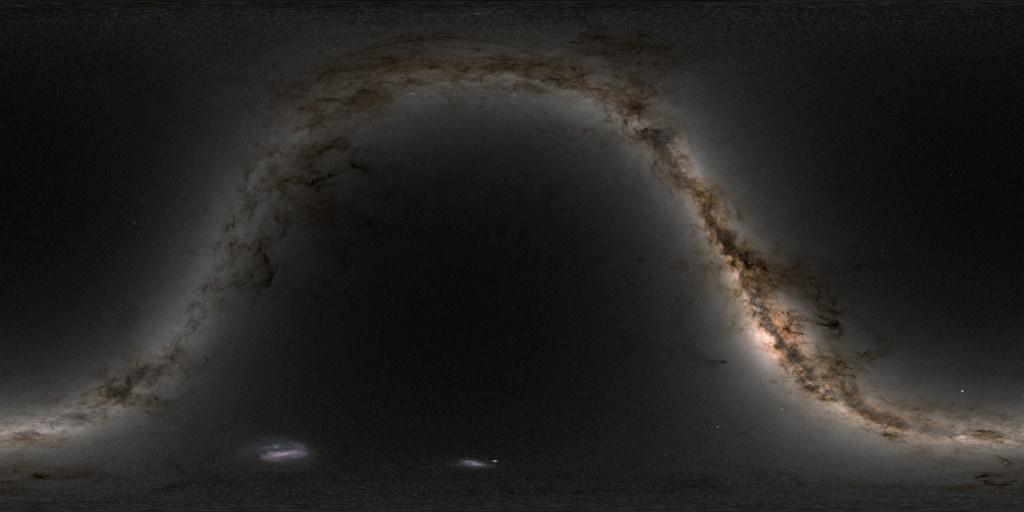
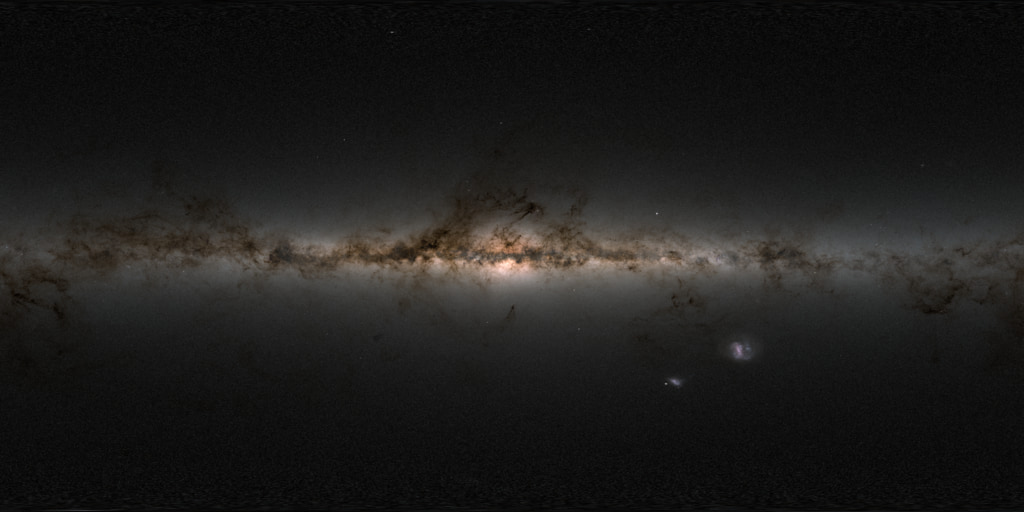
change: 은하수를 직선 띠로 — 은하좌표계 이미지 + 직선 별 라인
휘어진 아치(천구좌표계) -> 직선이 더 깔끔. 별과 맞추기도 쉬움.
- static/milkyway.jpg를 NASA 은하좌표계(직선 띠) 버전으로 교체
- .milkyway: 직선 대각선(rotate -24deg) 표시, 페더링 마스크
- galaxyArchY: 포물선 아치 -> 직선 (28 - 0.44*(x-50))
- 감사의 별 10개도 직선 라인 위로 재배치

diff --git a/src/lib/components/Cosmos.svelte b/src/lib/components/Cosmos.svelte
@@ -256,23 +256,23 @@
 	/* 은하수 — NASA Deep Star Maps(퍼블릭 도메인)의 실제 은하수 띠.
 	   대각선으로 돌리고 남보라로 그레이딩, 은은하게. */
 	.milkyway {
-		/* 은하수 전체 띠가 위쪽을 아치로 가로지름. 가장자리는 페더링으로 자연스럽게 */
+		/* 은하좌표계(직선 띠)를 대각선 직선으로 가로지름. 가장자리 페더링 */
 		position: absolute;
-		left: -22%;
-		right: -22%;
-		top: -10%;
-		height: 64%;
+		left: -32%;
+		right: -32%;
+		top: 3%;
+		height: 50%;
 		pointer-events: none;
 		background: url('/milkyway.jpg') center / 100% 100% no-repeat;
-		transform: rotate(-14deg);
+		transform: rotate(-24deg);
 		transform-origin: center;
 		/* 남보라로 물들이고 은은하게 */
-		filter: blur(2px) sepia(0.5) hue-rotate(205deg) saturate(1.6) brightness(0.82) contrast(1.04);
-		opacity: 0.5;
+		filter: blur(2px) sepia(0.5) hue-rotate(205deg) saturate(1.6) brightness(0.86) contrast(1.05);
+		opacity: 0.52;
 		mix-blend-mode: screen;
 		/* 직사각형 경계를 부드럽게 페이드 */
-		-webkit-mask: radial-gradient(ellipse 72% 90% at 50% 36%, #000 24%, transparent 88%);
-		mask: radial-gradient(ellipse 72% 90% at 50% 36%, #000 24%, transparent 88%);
+		-webkit-mask: radial-gradient(ellipse 80% 66% at 50% 50%, #000 26%, transparent 86%);
+		mask: radial-gradient(ellipse 80% 66% at 50% 50%, #000 26%, transparent 86%);
 	}
 
 	/* 별 — 순수한 점 */

diff --git a/src/lib/cosmos/gratitude.ts b/src/lib/cosmos/gratitude.ts
@@ -12,14 +12,14 @@ export type GratitudeStar = {
 
 // y는 은하 아치(galaxyArchY)를 따라 배치 — 별들이 은하수 띠 위에 모이도록.
 export const gratitudeStars: GratitudeStar[] = [
-	{ id: 'sea', x: 11, y: 19, name: '바다', note: '끝이 보이지 않아 오히려 안심이 되는 것.' },
-	{ id: 'mother', x: 23, y: 12, name: '어머니', note: '내가 처음 들은 목소리. 모든 다정함의 시작.' },
-	{ id: 'grandma', x: 33, y: 17, name: '할머니의 손', note: '주름마다 담긴 여러 계절.' },
-	{ id: 'you', x: 45, y: 6, name: '너', note: '지금 이 글을 읽고 있는, 당신.' },
-	{ id: 'night-music', x: 53, y: 12, name: '늦은 밤의 음악', note: '혼자가 아니라고 조용히 말해주는 소리.' },
-	{ id: 'friend', x: 63, y: 9, name: '오랜 친구', note: '말하지 않아도 아는 사이. 멀어도 가까운.' },
+	{ id: 'sea', x: 11, y: 46, name: '바다', note: '끝이 보이지 않아 오히려 안심이 되는 것.' },
+	{ id: 'mother', x: 23, y: 37, name: '어머니', note: '내가 처음 들은 목소리. 모든 다정함의 시작.' },
+	{ id: 'grandma', x: 33, y: 39, name: '할머니의 손', note: '주름마다 담긴 여러 계절.' },
+	{ id: 'you', x: 45, y: 31, name: '너', note: '지금 이 글을 읽고 있는, 당신.' },
+	{ id: 'night-music', x: 53, y: 24, name: '늦은 밤의 음악', note: '혼자가 아니라고 조용히 말해주는 소리.' },
+	{ id: 'friend', x: 63, y: 25, name: '오랜 친구', note: '말하지 않아도 아는 사이. 멀어도 가까운.' },
 	{ id: 'book', x: 70, y: 17, name: '한 권의 책', note: '다른 삶을 잠시 살게 해준 페이지들.' },
-	{ id: 'rain', x: 76, y: 24, name: '비 오는 날', note: '창을 두드리는 소리에 마음이 천천히 가라앉는다.' },
-	{ id: 'first-line', x: 84, y: 28, name: '첫 문장', note: '처음으로 내 손끝에서 제 빛깔을 낸 한 줄.' },
-	{ id: 'dawn', x: 92, y: 38, name: '새벽 산책', note: '아무도 깨지 않은 시간의 고요.' }
+	{ id: 'rain', x: 76, y: 19, name: '비 오는 날', note: '창을 두드리는 소리에 마음이 천천히 가라앉는다.' },
+	{ id: 'first-line', x: 84, y: 11, name: '첫 문장', note: '처음으로 내 손끝에서 제 빛깔을 낸 한 줄.' },
+	{ id: 'dawn', x: 92, y: 13, name: '새벽 산책', note: '아무도 깨지 않은 시간의 고요.' }
 ];

diff --git a/src/lib/cosmos/stars.ts b/src/lib/cosmos/stars.ts
@@ -29,7 +29,7 @@ export function makeStars(count = 90, seed = 20260606): Star[] {
 // 은하수 아치 중심선 — 화면에 표시되는 NASA 은하수 띠(아치)와 맞춤.
 // 좌우로 갈수록 내려가는 포물선 아치. (x: 0~100 → y %)
 export function galaxyArchY(x: number): number {
-	return 6 + 0.009 * (x - 40) ** 2;
+	return 28 - 0.44 * (x - 50);
 }
 
 // 은하수 아치를 따라 모여 있는 별들 — "별의 강".